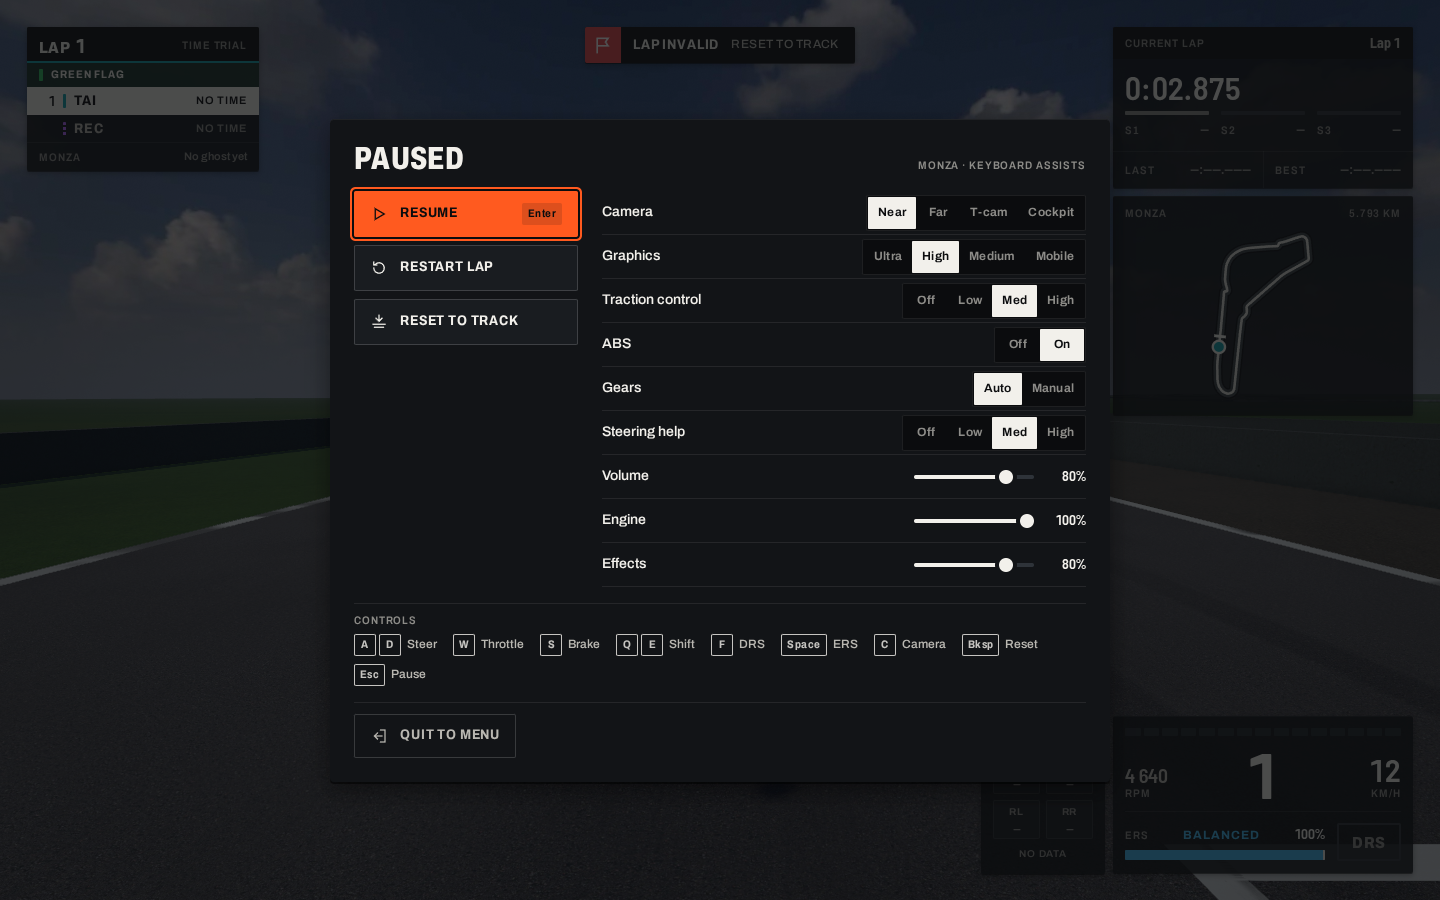
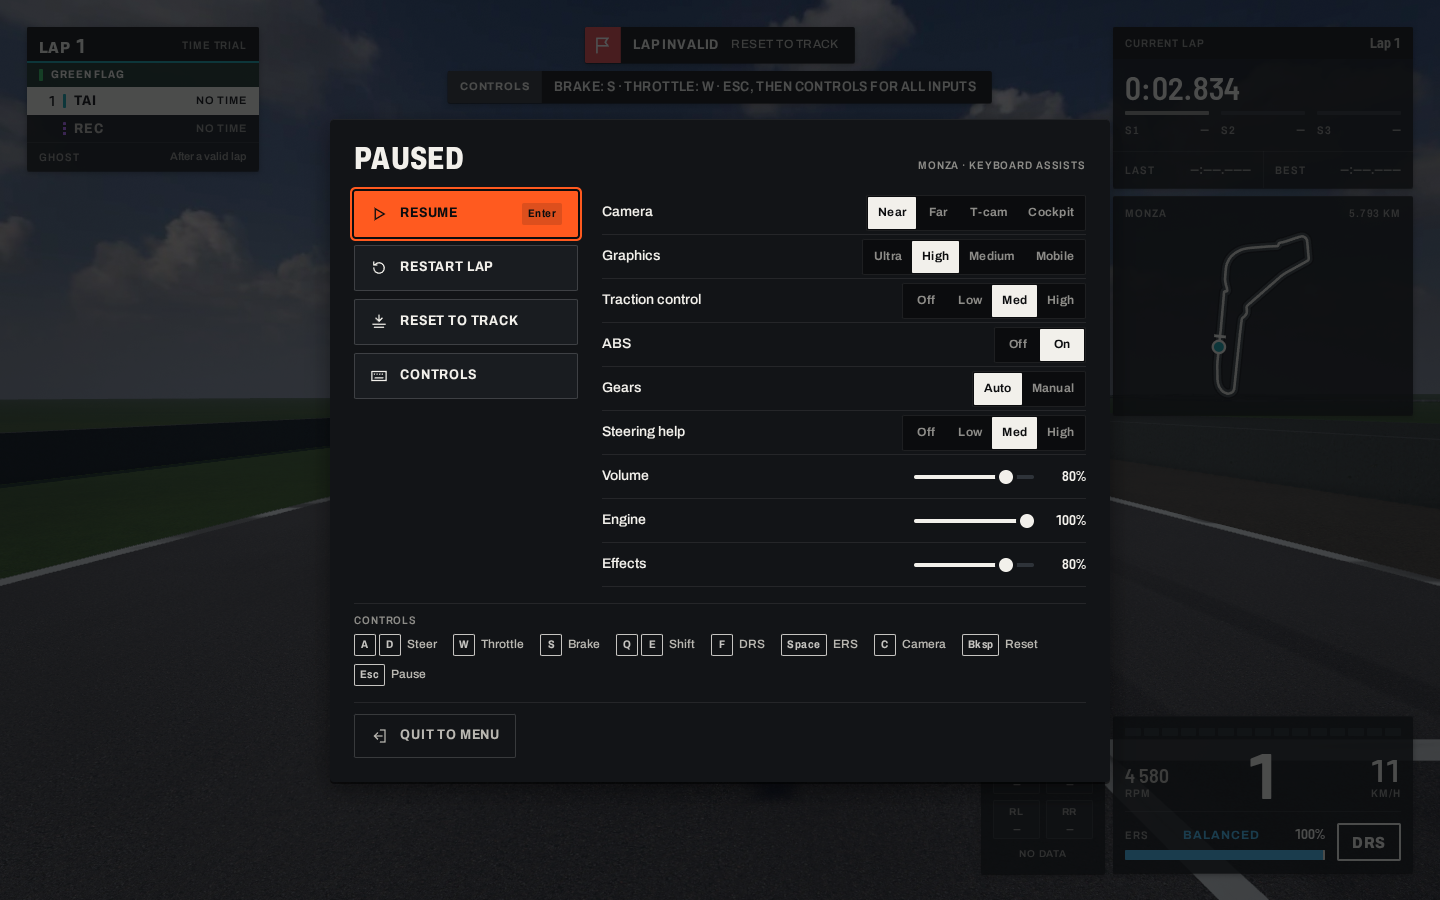
Show only the ghost state in the tower footer; refresh the UI evidence

diff --git a/apps/web/src/ui/hud.ts b/apps/web/src/ui/hud.ts
@@ -158,7 +158,8 @@ export class Hud {
     );
     const sFoot = el('footer', 'hud-tower__foot');
     this.ghostStatusEl = txt('ghostStatus', el('span', 'hud-session__ghost'));
-    sFoot.append(txt('circuit', el('span', 'label')), this.ghostStatusEl);
+    // The map names the circuit; the footer says whether the ghost of the record is out.
+    sFoot.append(el('span', 'label', S.hud.ghost), this.ghostStatusEl);
     session.append(sHead, status, rows, sFoot);
 
     // Control and prompt slot (top centre).

diff --git a/apps/web/src/ui/strings.ts b/apps/web/src/ui/strings.ts
@@ -182,13 +182,13 @@ export const S = {
     best: 'Best',
     ghost: 'Ghost',
     ghostActive: 'Active',
-    ghostOnTrack: 'Ghost on track',
+    ghostOnTrack: 'On track',
     greenFlag: 'Green flag',
     you: 'You',
     recordCode: 'REC',
     noTime: 'No time',
     outLapShort: 'Out',
-    ghostOff: 'No ghost yet',
+    ghostOff: 'After a valid lap',
     rpm: 'RPM',
     kmh: 'km/h',
     mph: 'mph',

diff --git a/docs/evidence/m2-ui/REVIEW.md b/docs/evidence/m2-ui/REVIEW.md
@@ -39,6 +39,12 @@ Captured with `node tools/screenshots/ui-shots.mjs` against the production build
 7. **Controls list from master (#20) in the old pause style**
    - Folded into the kit: a kit dialog (title, device with its icon, two columns of setting rows, the reverse note on a raised strip, Back with its prompt glyph), opened from a Controls button in the menu's top bar (every menu screen) and from the pause menu. Unbound inputs read in the label colour. Checked at `1440×900` (keyboard rows) and `844×390` (touch rows): two columns fit, nothing clipped.
 
+8. **Three circuits after Spa and Singapore landed (`circuits-1440x900.png`, `circuits-844x390.png`)**
+   - On desktop Monza's tall plan widened its card's content past the card edge ("Race laps" and the record cut off): the card's grid track is now pinned to the card width, and the three cards fill the row. On a phone the cards wrapped to a second row below the fold: they now sit three across in a compact form (smaller plan, two facts), with the screen title left to the breadcrumb.
+   - Spa and Singapore carry a "Time Trial only" mark (no AI racing line yet); the race-mode notice says why in one sentence.
+9. **Tower footer wrapped "Singapore Marina Bay" onto two lines (`hud-drive-1440x900.png`)**
+   - The map already names the circuit, so the tower's footer now shows only the ghost: "On track" or "After a valid lap".
+
 ## HUD frame-time benchmark
 
 Measured at `1440×900`, `high` quality preset, with vsync and frame-rate cap disabled (`--disable-gpu-vsync --disable-frame-rate-limit`), driving Monza on autopilot with the HUD visible vs hidden via `window.__undercut.setHudVisible` (`docs/evidence/m2-ui/report.json`):
